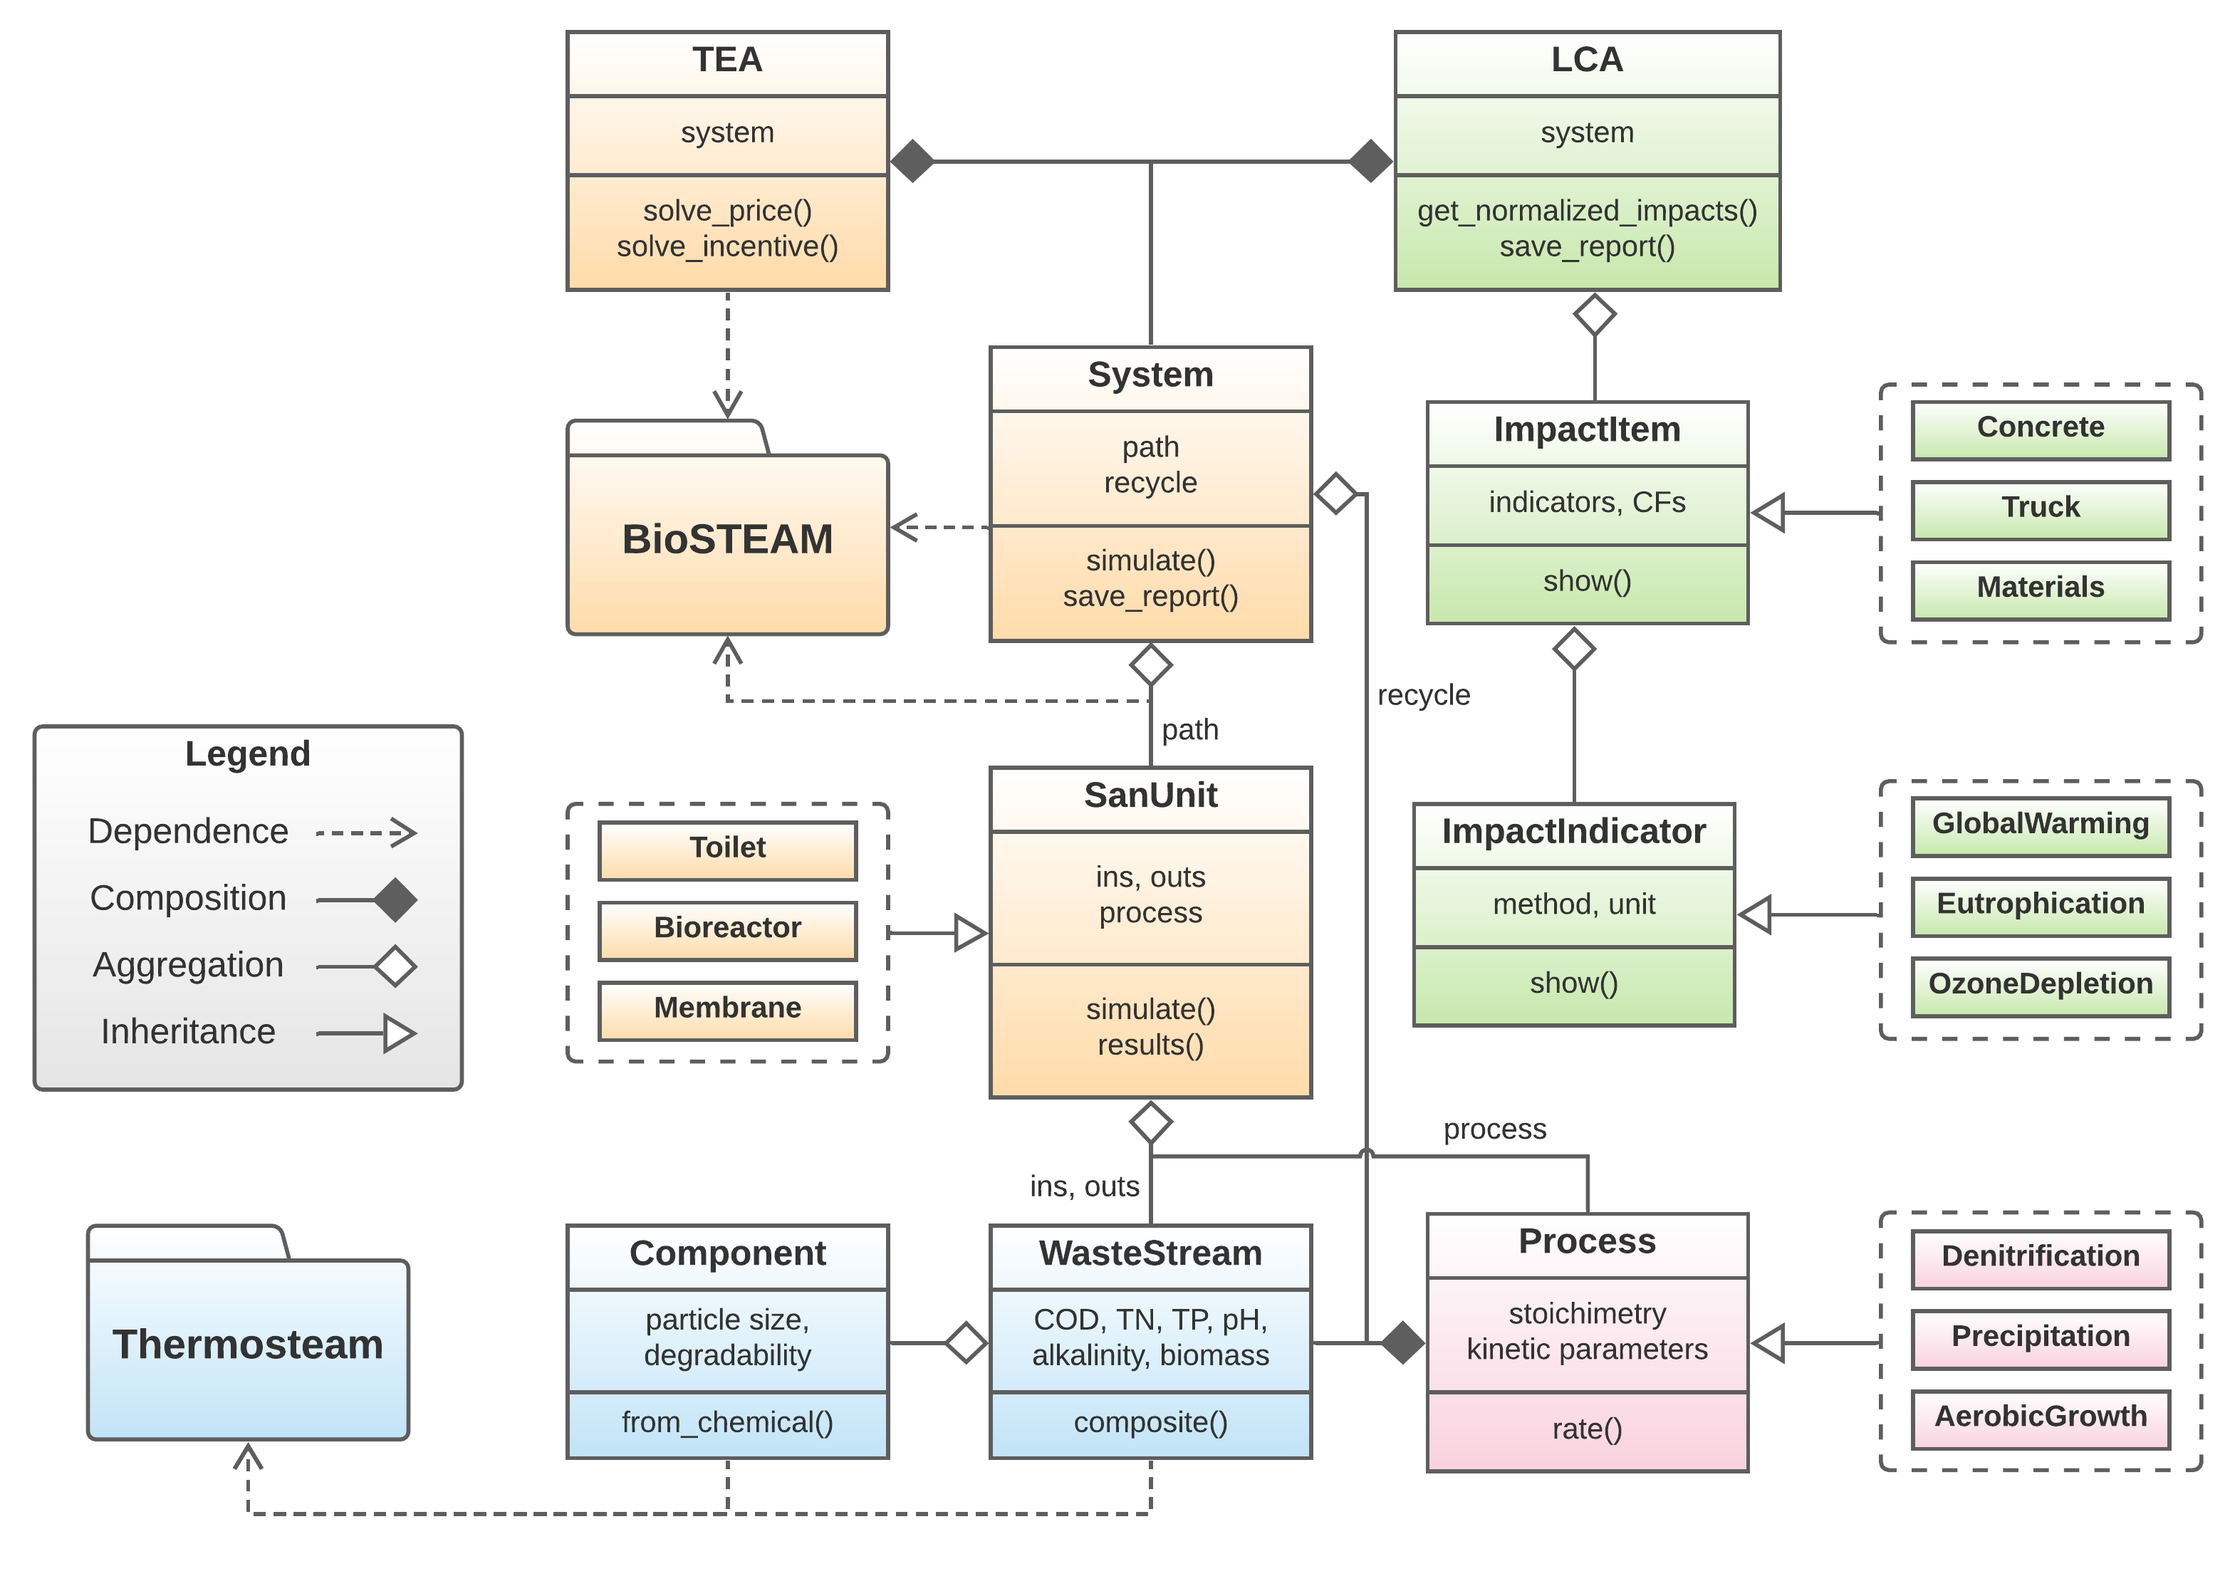
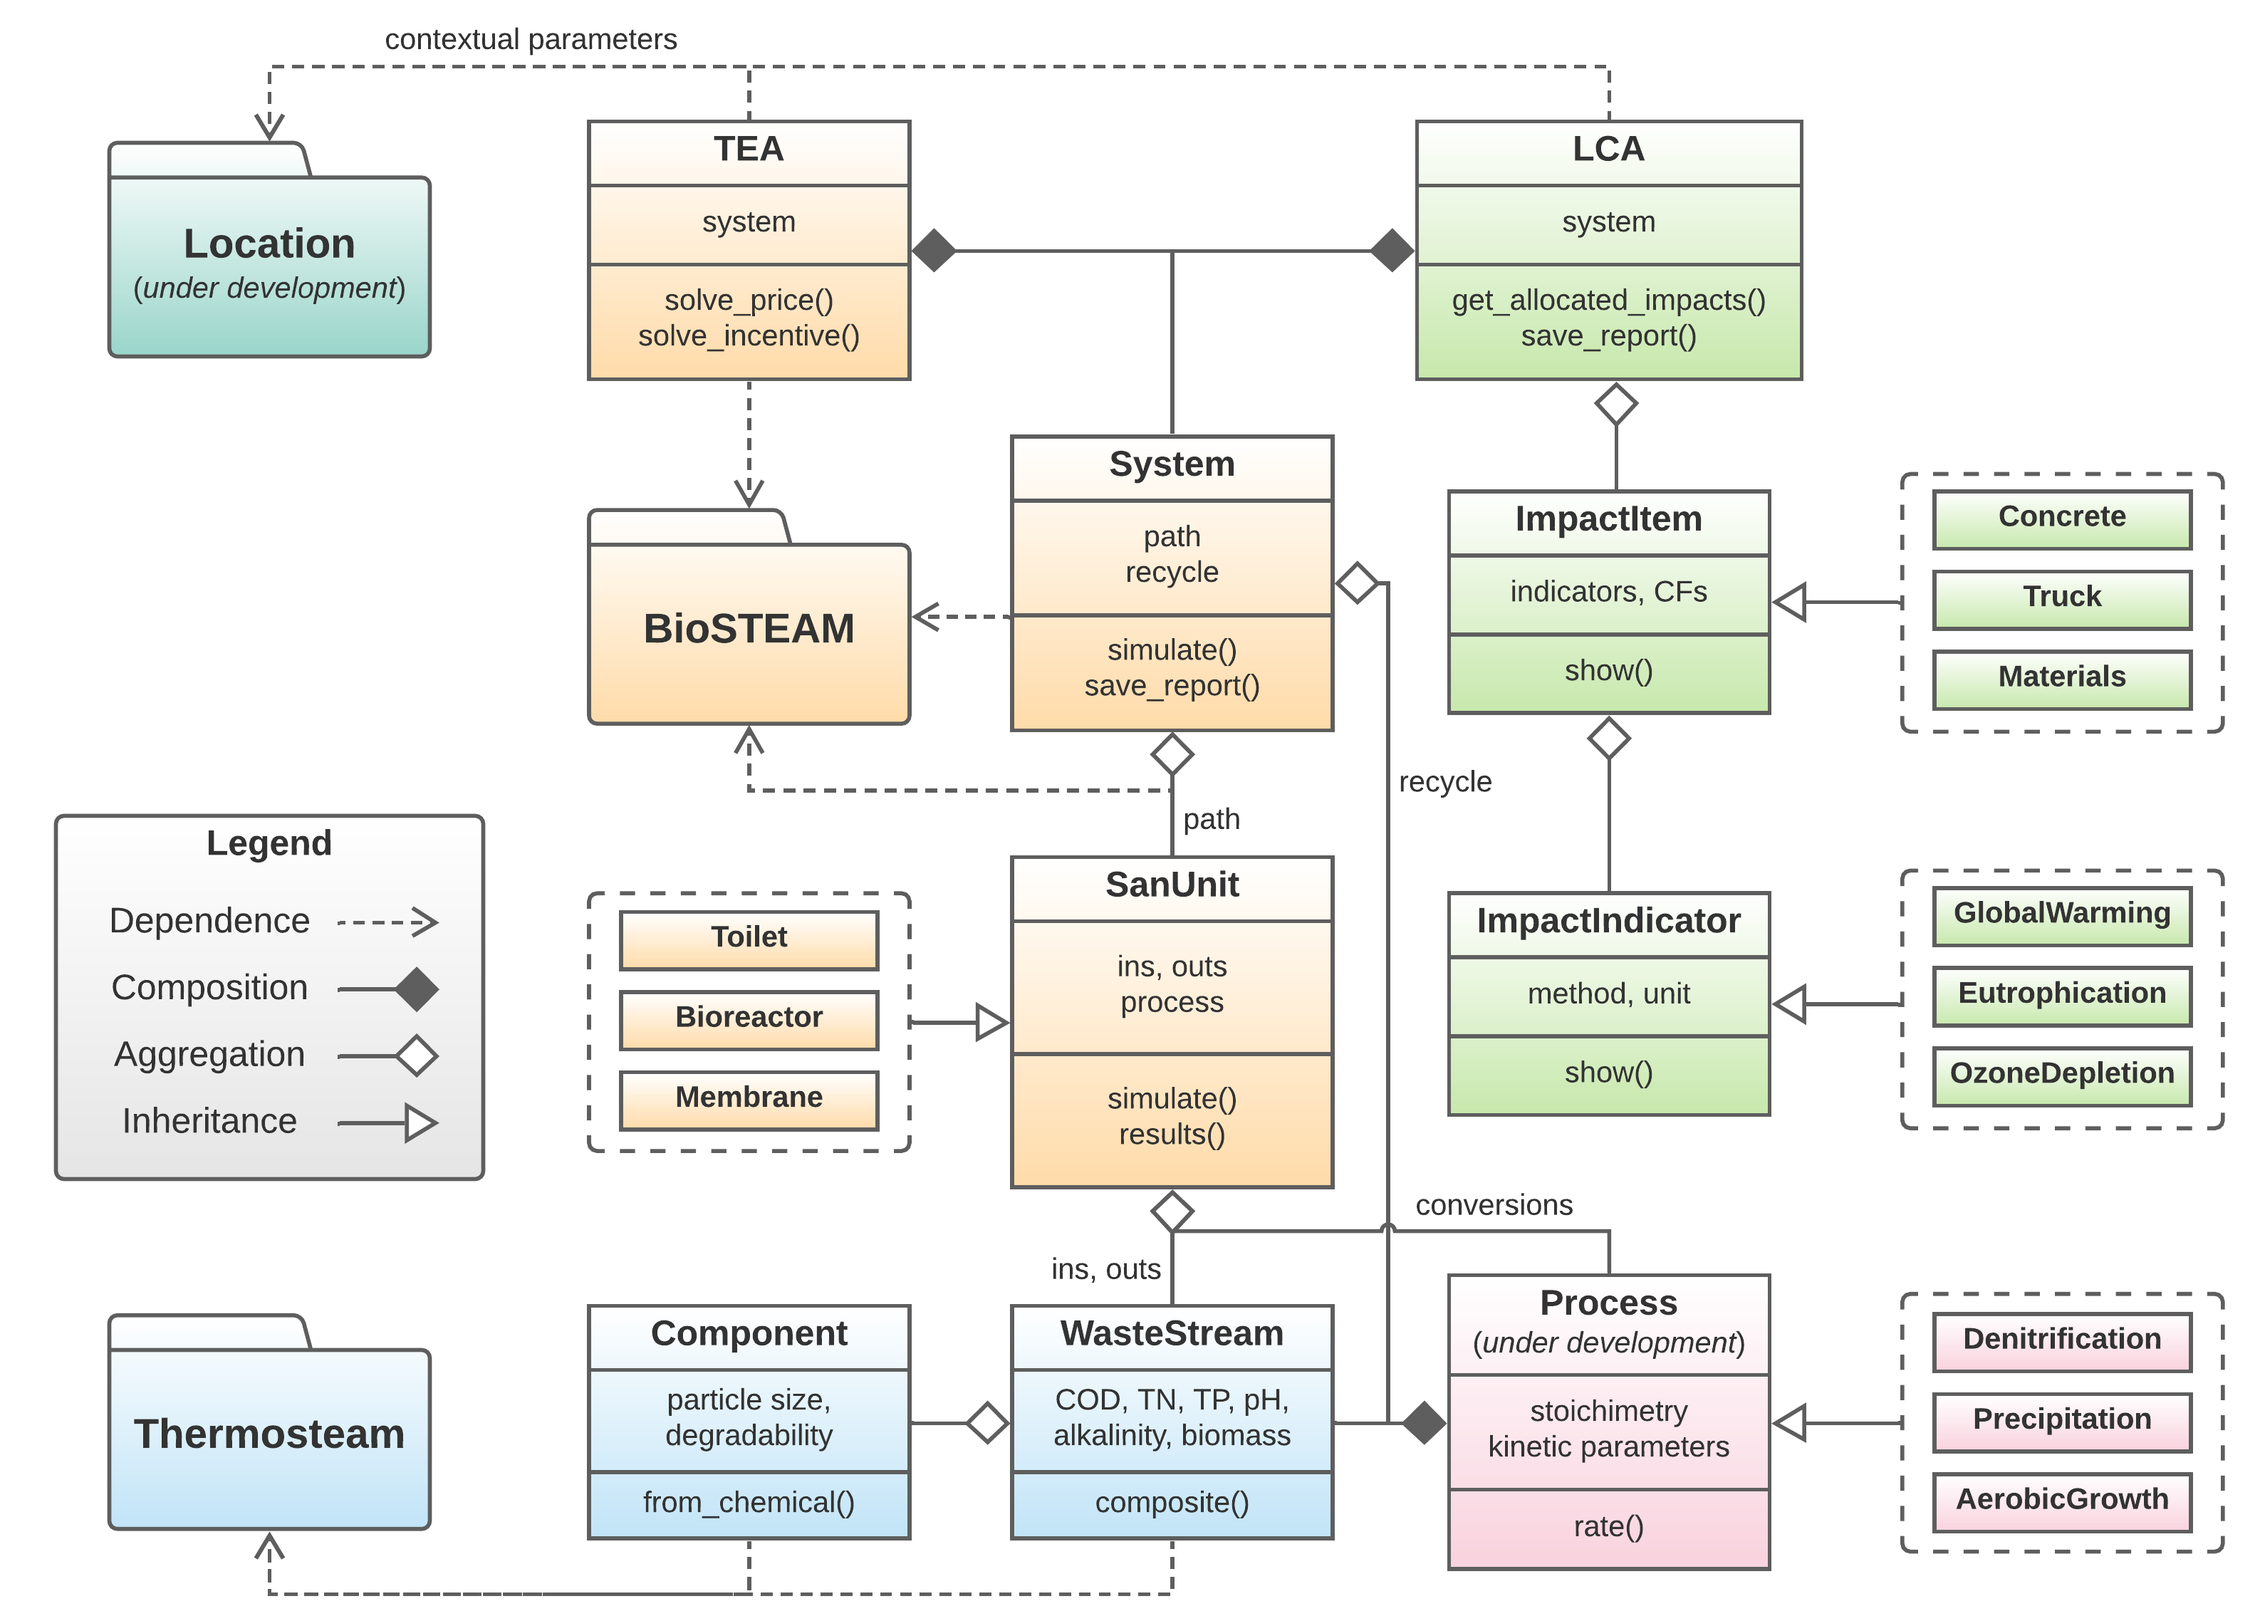
update UML

diff --git a/qsdsan/systems/bwaise/models.py b/qsdsan/systems/bwaise/models.py
@@ -411,7 +411,7 @@ def plot_recovery(model, resource):
     plot_series_bp(f'{sys_ID} Uncertainty Results',
                    dfs, colors.brown_tint.RGBn, colors.brown_shade.RGBn,
                    ('Liquid', 'Solid', 'Gas', 'Total'),
-                   f'{resource} Recovery [%]',
+                   f'{resource} Recovery',
                    (0, 1))
 
 

diff --git a/docs/source/conf.py b/docs/source/conf.py
@@ -54,7 +54,7 @@ templates_path = ['_templates']
 exclude_patterns = []
 
 # The name of the Pygments (syntax highlighting) style to use.
-pygments_style = 'tango'
+pygments_style = 'manni'
 # pygments_style = 'sphinx'
 
 # -- Options for HTML output -------------------------------------------------

diff --git a/README.rst b/README.rst
@@ -18,14 +18,18 @@ QSDsan: Quantitative Sustainable Design for sanitation and resource recovery sys
 
 .. contents::
 
-What is QSDsan?
-----------------------------
-**QSDsan** is a package for the quantitative sustainable design of sanitation and resource recovery systems leveraging the structure and modules developed in BioSTEAM [1]_. As an open-source and impact-driven platform, QSDsan aims to identify configuration combinations, systematically probe interdependencies across technologies, and identify key sensitivities to contextual assumptions through the use of quantitative sustainable design methods (techno-economic analysis and life cycle assessment and under uncertainty). 
+What is ``QSDsan``?
+-------------------
+``QSDsan`` is a package for the quantitative sustainable design of sanitation and resource recovery systems leveraging the structure and modules developed in ``BioSTEAM`` [1]_. As an open-source and impact-driven platform, ``QSDsan`` aims to identify configuration combinations, systematically probe interdependencies across technologies, and identify key sensitivities to contextual assumptions through the use of quantitative sustainable design methods (techno-economic analysis and life cycle assessment and under uncertainty). 
 
 
 Installation
 ------------
-First install the package at `PyPI <https://pypi.org/>`_. If you use pip, simply ``pip install qsdsan``.
+First install the package at `PyPI <https://pypi.org/>`_. If you use pip:
+
+.. code:: bash
+
+    pip install qsdsan
 
 Note that development of this package is currently under initial stage with limited backward compatibility, please free free to contact us with any questions regarding package upgrading.
 

diff --git a/docs/source/index.rst b/docs/source/index.rst
@@ -15,7 +15,7 @@ All systems developed with ``QSDsan`` will be included in another repository in 
 
 Getting Started
 ---------------
-First install the package at `PyPI <https://pypi.org/>`_. If you use pip, simply
+First install the package at `PyPI <https://pypi.org/>`_. If you use pip:
 
 .. code:: bash
 
@@ -35,7 +35,7 @@ Follow the tutorial to get started!
 
 How does QSDsan work?
 ---------------------
-.. figure:: https://lucid.app/publicSegments/view/328e7bc3-8fbe-42b9-ae9f-0fde6a7de253/image.png
+.. figure:: https://lucid.app/publicSegments/view/c8de361f-7292-47e3-8870-d6f668691728/image.png
 
    Simplified unified modeling language (UML) diagram of ``QSDsan``
 

diff --git a/docs/source/CHANGELOG.rst b/docs/source/CHANGELOG.rst
@@ -8,6 +8,7 @@ This document records notable changes to `QSDsan <https://github.com/QSD-Group/Q
 Ongoing
 -------
 - ``LCA.get_normalized_impacts`` was replaced by ``LCA.get_allocated_impacts`` for flexible allocation options.
+- Reformatted all documents, added instructions on documentation.
 - Added brief instructions on contributing and code of conduct.
 - Updated UML diagram.
 
